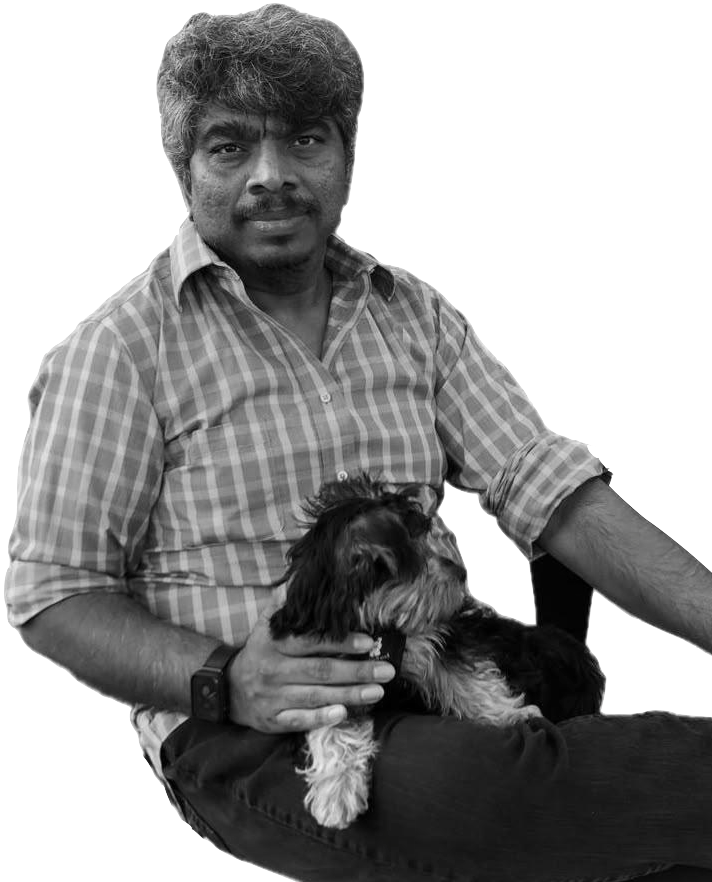
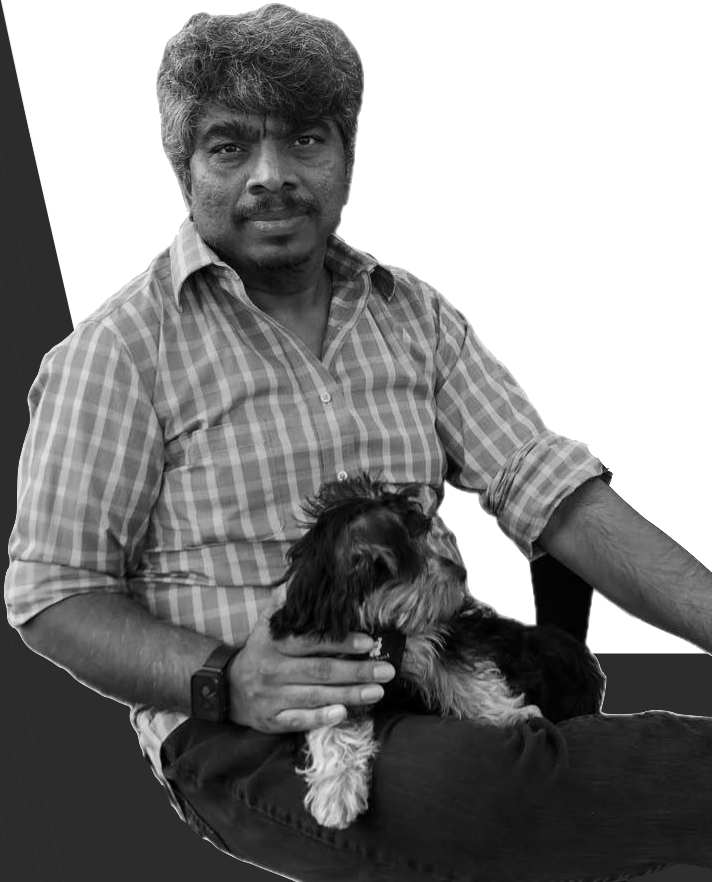
Update workspace dimensions, improve Ask Anki terminal layout, and enhance assistant scoring logic
Adjust the portrait width in the workspace component for better layout. Modify the Ask Anki terminal to improve the alignment and update the image source for better visual representation. Refactor scoring thresholds in the assistant configuration to refine response accuracy and introduce debug logging for development environments.

Changed region(s): [[0.0, 0.0, 0.4017, 1.0], [0.8343, 0.7347, 1.0, 0.8265], [0.8961, 0.9796, 1.0, 1.0]]

diff --git a/lib/assistant/askAnki.ts b/lib/assistant/askAnki.ts
@@ -42,6 +42,16 @@ export async function askAnki(
 
   const results = await searchSimilar(q, undefined, callbacks?.onStatus);
 
+  if (process.env.NODE_ENV === "development") {
+    const top = results[0];
+    console.debug("[Ask Anki] retrieval", {
+      question: q,
+      topScore: top?.score ?? null,
+      topPath: top?.chunk.path ?? null,
+      resultCount: results.length,
+    });
+  }
+
   if (shouldRefuseQuestion(q, results)) {
     return {
       answer: REFUSAL_MESSAGE,

diff --git a/components/workspace/AskAnkiTerminal.tsx b/components/workspace/AskAnkiTerminal.tsx
@@ -220,15 +220,15 @@ export function AskAnkiTerminal({
 
       <div className="flex min-h-0 flex-1">
         <div
-          className="flex h-full shrink-0 items-center border-r border-ide-border bg-[#0d0d0d] pl-2 pr-0 max-md:hidden"
+          className="flex h-full shrink-0 items-end justify-start border-r border-ide-border bg-[#0d0d0d] max-md:hidden"
           style={{ width: portraitPanelWidth }}
         >
           <Image
-            src="/anki.png"
+            src="/anki2.png"
             alt="Anki Nelaturu"
             width={portraitWidth}
             height={portraitHeight}
-            className="h-full w-auto object-contain"
+            className="h-full w-auto object-contain object-left-bottom"
             sizes="(max-width: 768px) 0px, 200px"
           />
         </div>

diff --git a/lib/assistant/config.ts b/lib/assistant/config.ts
@@ -1,7 +1,10 @@
 export const ASSISTANT_CORPUS_URL = "/assistant/corpus.json";
 export const ASSISTANT_VECTORS_URL = "/assistant/vectors.json";
 
-export const ASSISTANT_MIN_SCORE = 0.38;
+/** Min score to include a chunk in the top-K set passed to Gemma. */
+export const ASSISTANT_MIN_SCORE = 0.28;
+/** Below this top-1 score, refuse before calling Gemma (clearly off-topic). */
+export const ASSISTANT_REFUSE_BELOW_SCORE = 0.22;
 export const ASSISTANT_TOP_K = 5;
 
 export const EMBEDDING_MODEL = "Xenova/all-MiniLM-L6-v2";

diff --git a/lib/assistant/profileGuard.ts b/lib/assistant/profileGuard.ts
@@ -1,4 +1,4 @@
-import { ASSISTANT_MIN_SCORE } from "@/lib/assistant/config";
+import { ASSISTANT_REFUSE_BELOW_SCORE } from "@/lib/assistant/config";
 import type { RetrievalResult } from "@/lib/assistant/types";
 
 const BLOCKLIST: RegExp[] = [
@@ -24,7 +24,7 @@ export function isBlocklistedQuestion(question: string): boolean {
 
 export function isRelevantRetrieval(results: RetrievalResult[]): boolean {
   if (results.length === 0) return false;
-  return results[0]!.score >= ASSISTANT_MIN_SCORE;
+  return results[0]!.score >= ASSISTANT_REFUSE_BELOW_SCORE;
 }
 
 export function shouldRefuseQuestion(question: string, results: RetrievalResult[]): boolean {

diff --git a/components/workspace.tsx b/components/workspace.tsx
@@ -34,7 +34,7 @@ const DEFAULT_INSIGHTS_WIDTH = 300;
 const MIN_INSIGHTS_WIDTH = 200;
 const MAX_INSIGHTS_WIDTH = 520;
 
-const PORTRAIT_WIDTH = 712;
+const PORTRAIT_WIDTH = 668;
 const PORTRAIT_HEIGHT = 882;
 
 export function Workspace({ folders, initialSlug }: WorkspaceProps) {